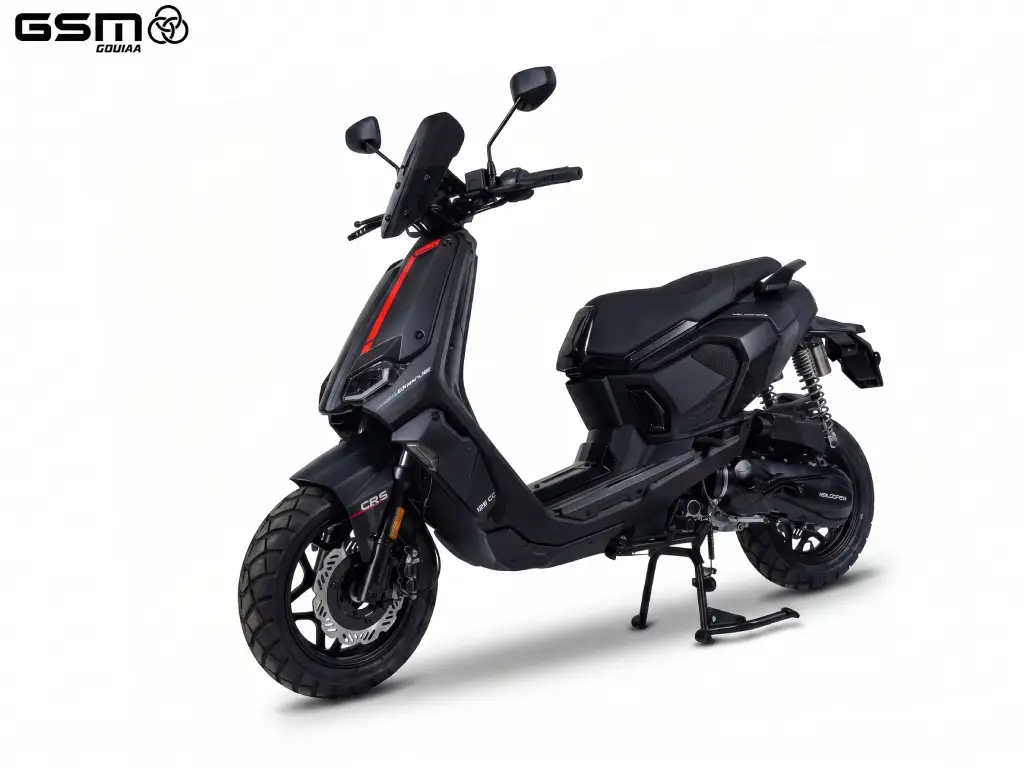
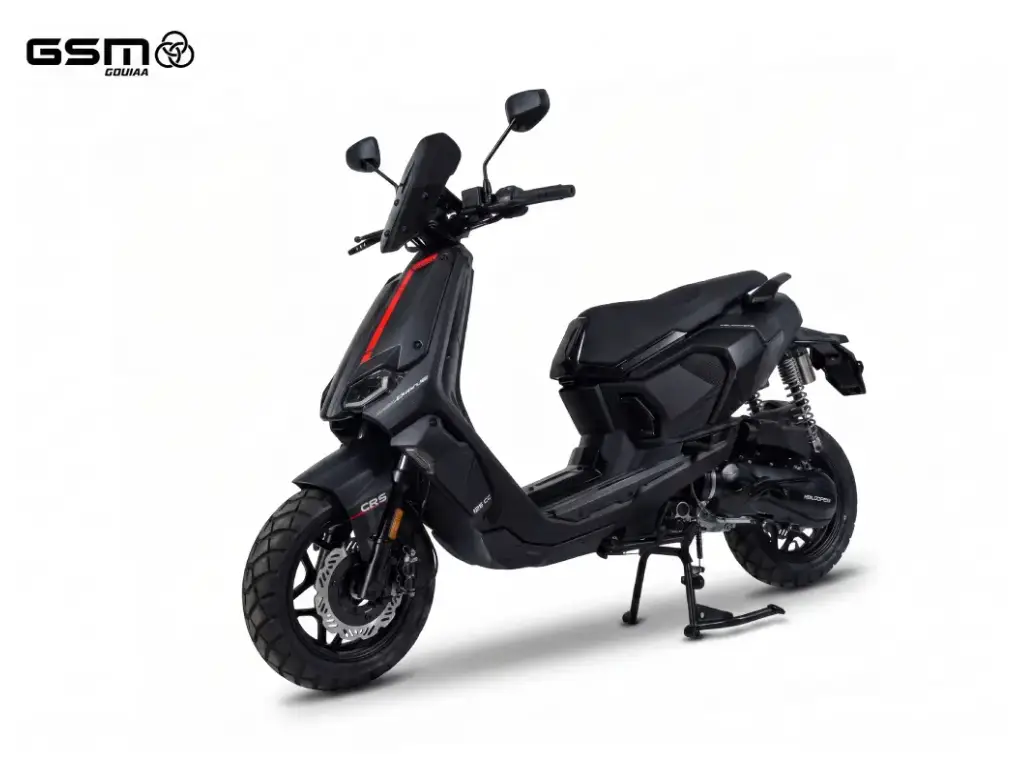
las

Changed region(s): [[0.2188, 0.0625, 0.875, 0.9375], [0.0, 0.0, 0.1875, 0.125]]

diff --git a/data.js b/data.js
@@ -53,7 +53,7 @@ const brands = [
 
 
 
-    { name: "NOVAGO", logo: "./img/logos-actumoto/novago.png?v=2" },
+
     // { name: "AIMA", logo: "./img/logos-actumoto/aima.png?v=2" },
     // { name: "KYMCO", logo: "./img/logos-actumoto/kymco.png?v=2" },
 
@@ -95,7 +95,7 @@ const brands = [
 
     { name: "GSM GOUIAA", logo: "./img/logos-actumoto/gsm.png?v=3" },
 
-
+    { name: "NOVAGO", logo: "./img/logos-actumoto/novago.png?v=2" },
 
 
     // { name: "E RIDER", logo: "./img/logos-actumoto/erider.png?v=2" },
@@ -4203,6 +4203,28 @@ const modelsData = {
             }
         },
         {
+            name: "Super Frigate ",
+            fuelType: "Thermique",
+            category: "Scooter",
+            images: ["./img/models/gsm/frigate/frigate.webp", "./img/models/gsm/frigate/frigate2.webp", "./img/models/gsm/frigate/frigate3.webp", "./img/models/gsm/frigate/frigate4.webp"],
+            price: 4900,
+            currency: "DT",
+
+            specs: {
+                typeMoteur: "monocylindre 4 temps",
+                cylindree: 125,
+                puissance: null,
+                coupleMaximal: null,
+                refroidissement: "A air",
+                tankCapacity: null,
+                vitesseMaximale: null,
+                autonomie: null,
+                alimentation: "",
+                freinage: " ",
+                systemeFreinage: "",
+            }
+        },
+        {
             name: "Tennis",
             fuelType: "Thermique",
             category: "Scooter",
@@ -5280,7 +5302,7 @@ const dealersContacts = {
         instagram: "https://www.instagram.com/gsmgouiaa",
         dealers: [
             {
-                name: "Nablielectrosat",
+                name: "Nabli electrosat",
                 city: "Sfax",
                 address: "Av. 5 août, Sfax 3002",
                 mapUrl: "https://www.google.com/maps/dir/36.7412294,10.2241476/34.7455,10.7628/@35.7267608,9.1711148,385783m/data=!3m2!1e3!4b1!4m4!4m3!1m1!4e1!1m0?entry=ttu&g_ep=EgoyMDI2MDcxNS4wIKXMDSoASAFQAw%3D%3D",

diff --git a/modeles.html b/modeles.html
@@ -881,14 +881,16 @@
         border-radius: 10px;
         padding: 1.1rem 1.2rem;
         text-align: left;
-        transition: box-shadow 0.25s ease, transform 0.25s ease;
-        box-shadow: 0 2px 8px rgba(0,0,0,0.06);
+        transition:
+          box-shadow 0.25s ease,
+          transform 0.25s ease;
+        box-shadow: 0 2px 8px rgba(0, 0, 0, 0.06);
         flex: 1 1 220px;
         max-width: 280px;
       }
 
       .dealer-card:hover {
-        box-shadow: 0 6px 20px rgba(0,0,0,0.12);
+        box-shadow: 0 6px 20px rgba(0, 0, 0, 0.12);
         transform: translateY(-2px);
       }
 
@@ -1422,7 +1424,7 @@
       </div>
     </footer>
 
-    <script src="data.js?v=20260717"></script>
+    <script src="data.js?v=20260719"></script>
     <script src="formatters.js"></script>
     <script>
       document.addEventListener("DOMContentLoaded", function () {
@@ -2395,7 +2397,9 @@
             const mapsEmbedUrl = contacts.mapUrl
               ? `https://maps.google.com/maps?q=${encodeURIComponent(firstAddress + ", Tunisia")}&t=&z=13&ie=UTF8&iwloc=&output=embed`
               : `https://maps.google.com/maps?q=${encodedAddress}&t=&z=15&ie=UTF8&iwloc=&output=embed`;
-            const mapsDirectionsUrl = contacts.mapUrl || `https://www.google.com/maps/search/${encodedAddress}`;
+            const mapsDirectionsUrl =
+              contacts.mapUrl ||
+              `https://www.google.com/maps/search/${encodedAddress}`;
 
             contactContent += `
               <div class="contact-item maps-item">
@@ -2498,7 +2502,9 @@
             <div class="dealers-section">
               <div class="dealers-section-title">🧭 Nos Revendeurs</div>
               <div class="dealers-grid">
-                ${contacts.dealers.map((dealer) => `
+                ${contacts.dealers
+                  .map(
+                    (dealer) => `
                   <div class="dealer-card">
                     <div class="dealer-card-name">${dealer.name || ""}</div>
                     ${dealer.city ? `<div class="dealer-card-city">${dealer.city}</div>` : ""}
@@ -2508,7 +2514,9 @@
                       ${dealer.mapUrl ? `<a class="dealer-card-map-link" href="${dealer.mapUrl}" target="_blank" rel="noopener noreferrer">📍 Maps</a>` : ""}
                     </div>
                   </div>
-                `).join("")}
+                `,
+                  )
+                  .join("")}
               </div>
             </div>
           `;

diff --git a/index.html b/index.html
@@ -1784,7 +1784,7 @@
       data-cfasync="false"
       src="/cdn-cgi/scripts/5c5dd728/cloudflare-static/email-decode.min.js"
     ></script>
-    <script src="data.js?v=20260717"></script>
+    <script src="data.js?v=20260719"></script>
     <script>
       // ===========================================
       // RENDER BRANDS - Load from data.js